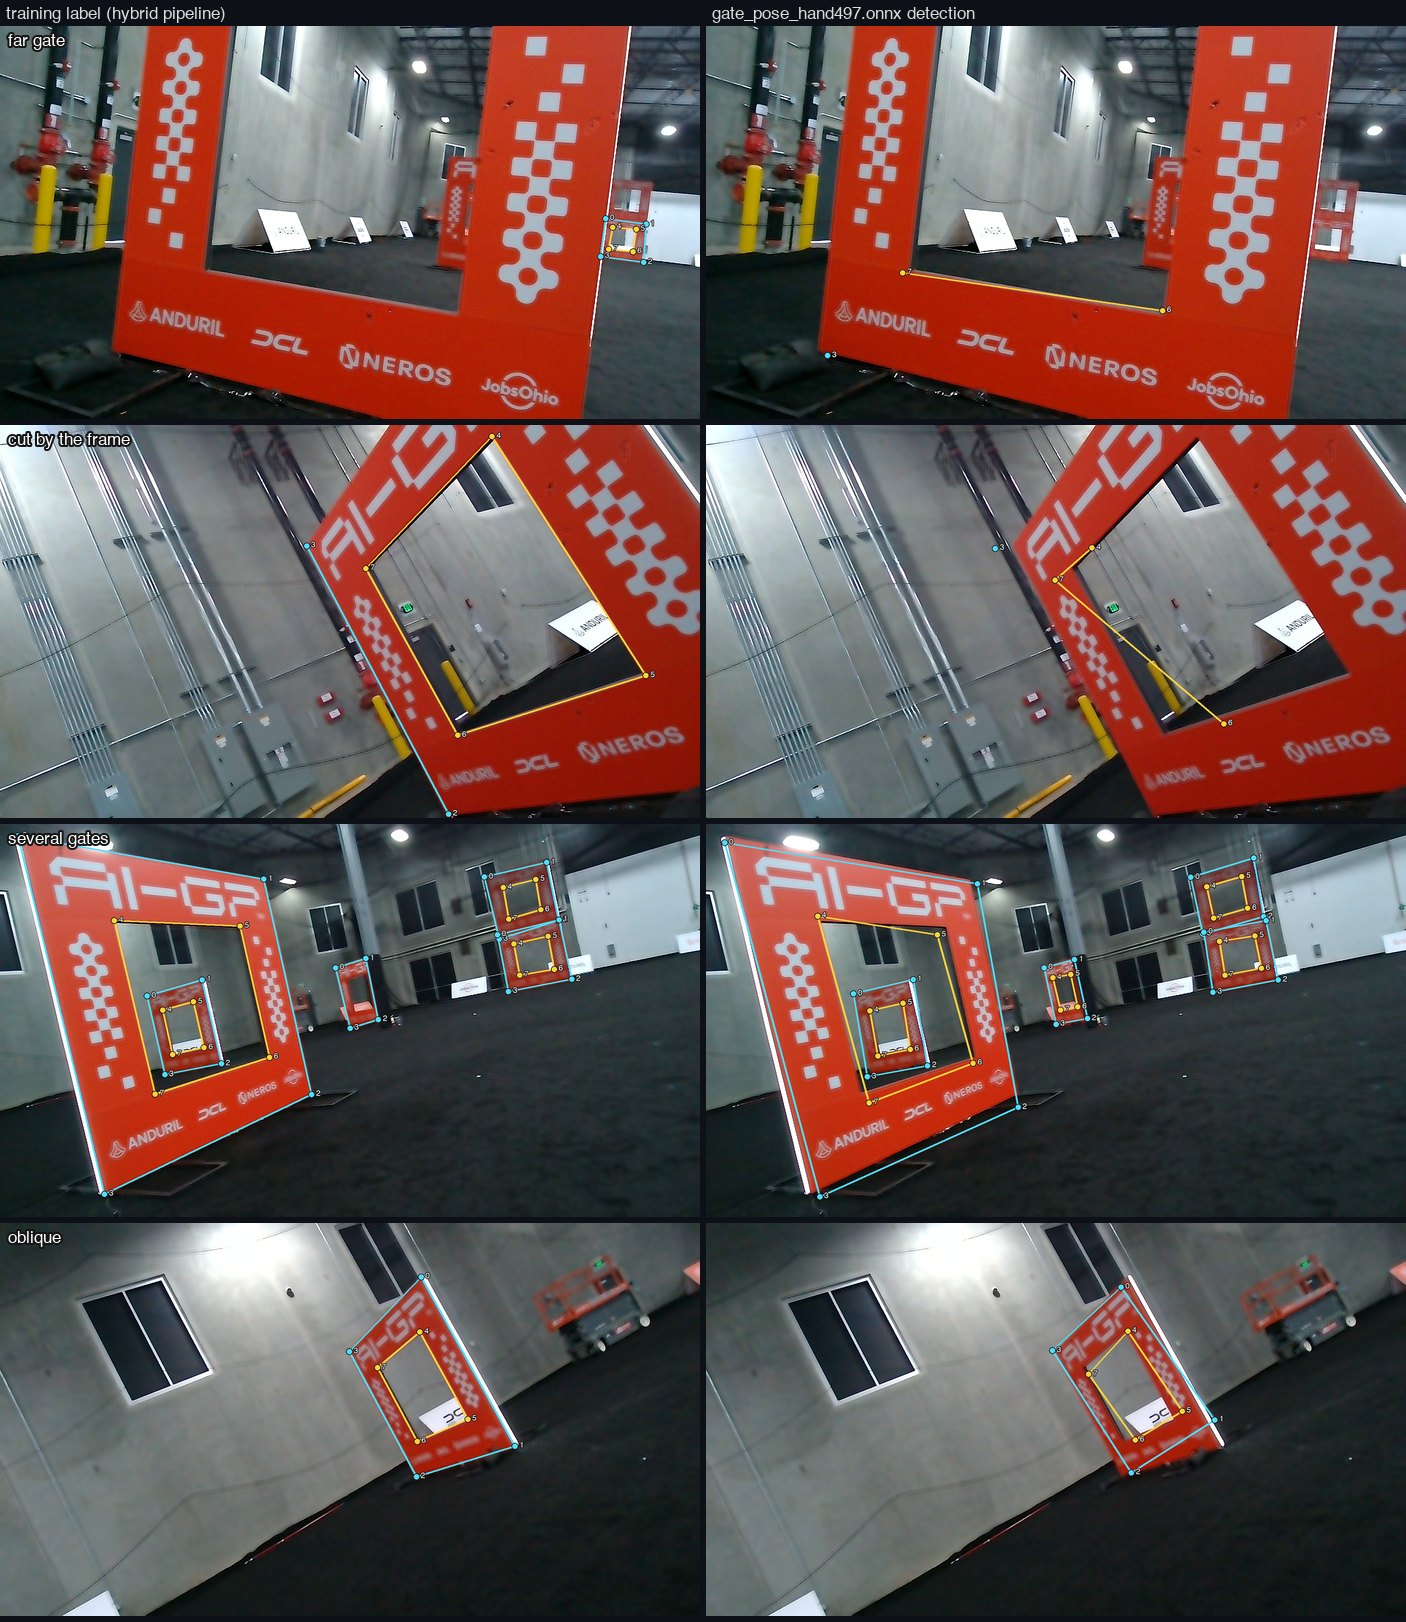
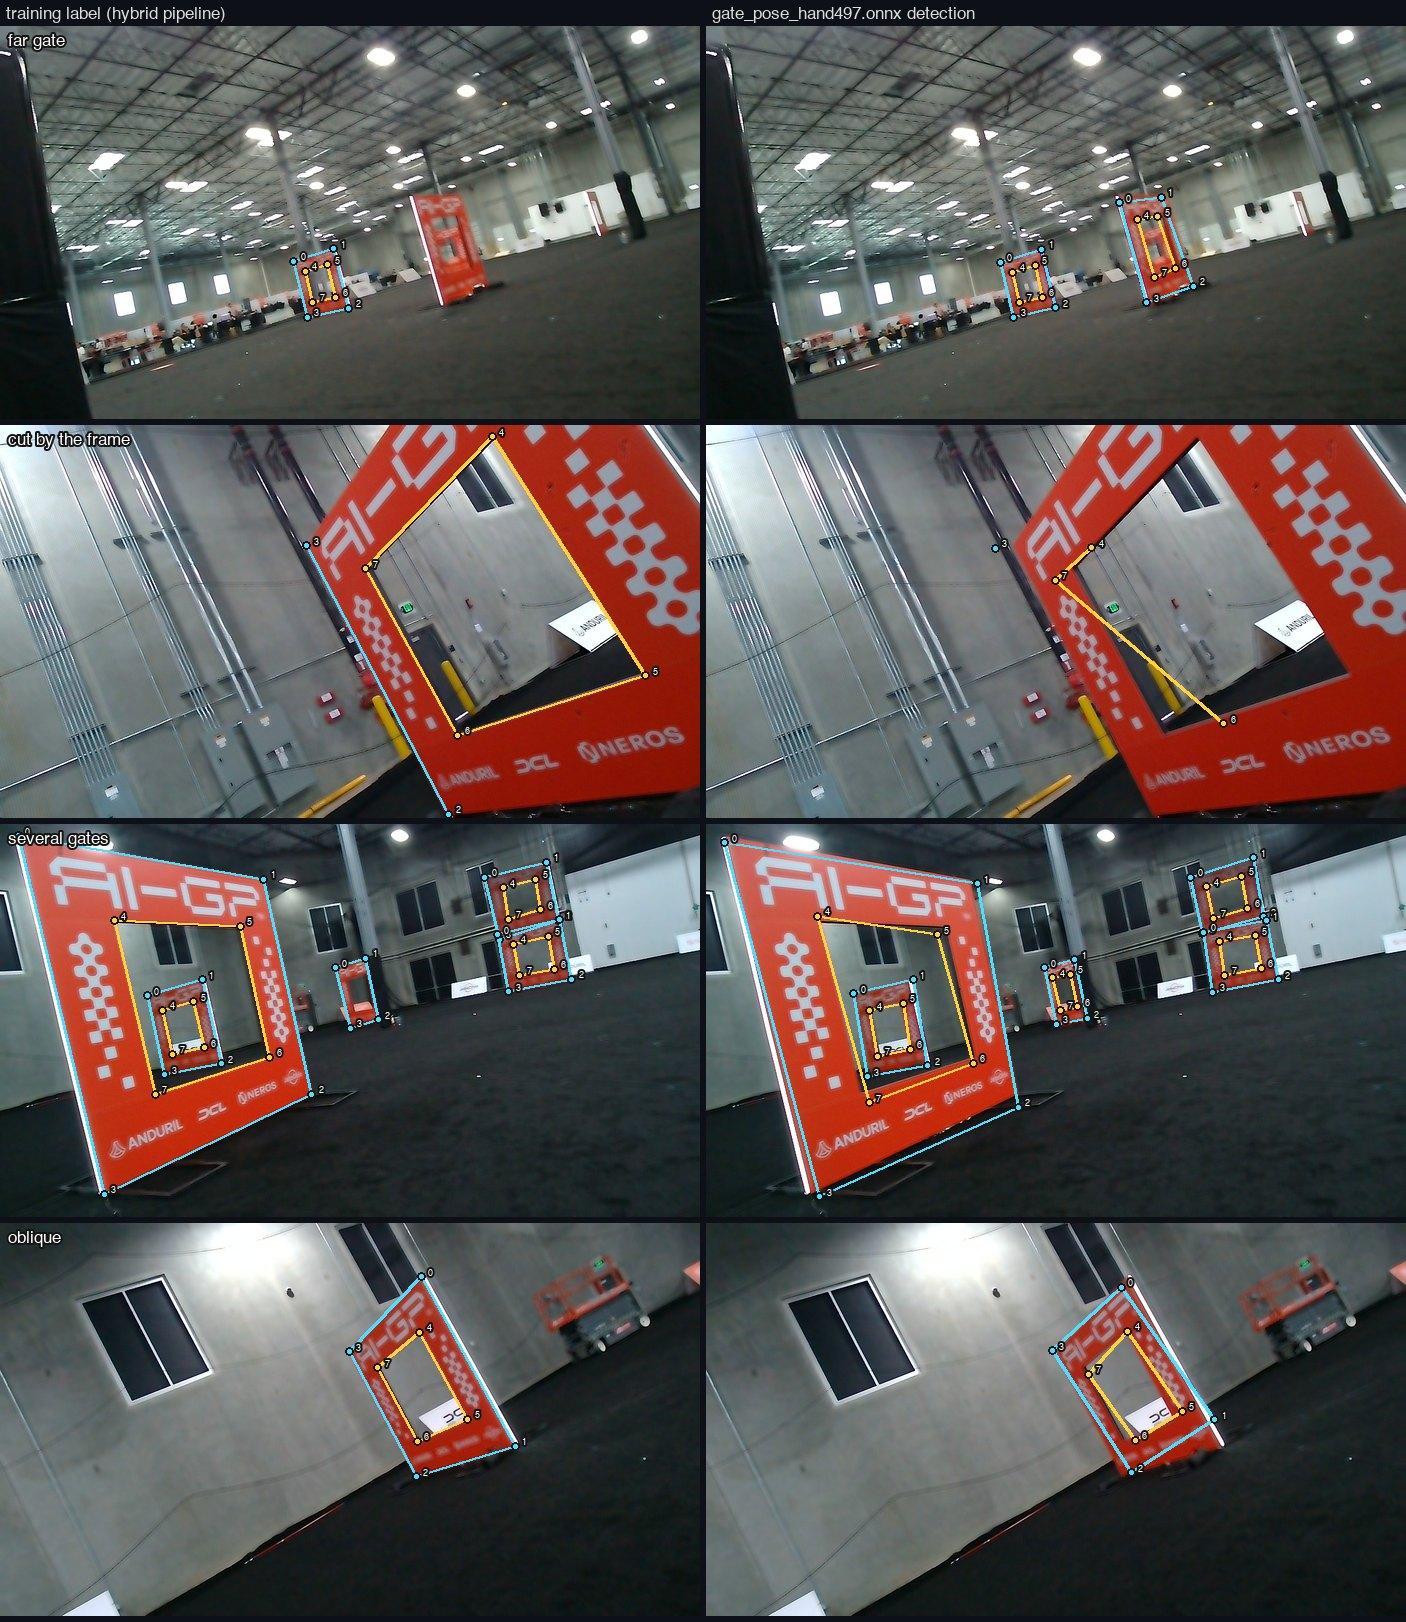
README images picked for what they show
The animated pair is now an approach through the hall (frames 200-240 of
the second session, the gate growing from 17% to 67% of the frame),
chosen by the labels themselves; the far-gate row is a frame where every
detection is small, so no unlabelled near gate dominates it. Overlays are
drawn at output size so lines and numbers stay legible.

diff --git a/docs/make_readme_images.py b/docs/make_readme_images.py
@@ -47,9 +47,11 @@ def gates(stem):
     return out
 
 def draw(im, gs, scale=1.0):
+    """Draw at the image's own size: lw/r/font scale with width so overlays stay legible after resizing."""
     W, H = im.size; d = ImageDraw.Draw(im)
-    lw = max(2, int(5 * scale)); r = max(4, int(9 * scale))
-    try: font = ImageFont.truetype("/System/Library/Fonts/Helvetica.ttc", int(22 * scale))
+    k = W / 1920 * scale
+    lw = max(2, round(7 * k)); r = max(3, round(11 * k))
+    try: font = ImageFont.truetype("/System/Library/Fonts/Helvetica.ttc", max(9, round(26 * k)))
     except OSError: font = ImageFont.load_default()
     for box, kps in gs:
         pts = [(x * W, y * H, vis) for x, y, vis in kps]
@@ -67,10 +69,26 @@ def draw(im, gs, scale=1.0):
 
 def frame(stem, width):
     im = Image.open(os.path.join(CAPTURE, stem + ".jpg")).convert("RGB")
-    im = draw(im, gates(stem))
-    return im.resize((width, int(im.height * width / im.width)), Image.LANCZOS)
+    im = im.resize((width, int(im.height * width / im.width)), Image.LANCZOS)
+    return draw(im, gates(stem))
 
-def side_by_side_gif(start="0919_214639_000000", n=50, step=2, width=460, fps=5, weights=None):
+def best_window(n=40, step=1):
+    """The n-frame window that is an approach: the largest gate with six or more corners in view grows the most."""
+    best, best_score = None, -1
+    for prefix in ("0919_214639", "0919_220524"):
+        hs = {}
+        for p in glob.glob(os.path.join(LABELS, "*", "labels", prefix + "_*.txt")):
+            st = os.path.splitext(os.path.basename(p))[0]; gs = gates(st)
+            ok = [g for g in gs if sum(v for _, _, v in g[1]) >= 6]
+            hs[int(st[-6:])] = max((g[0][3] for g in ok), default=0.0)
+        for a in sorted(hs):
+            win = [hs.get(a + k * step, 0.0) for k in range(n)]
+            if min(win) <= 0.10: continue
+            sc = win[-1] - win[0]
+            if sc > best_score: best, best_score = f"{prefix}_{a:06d}", sc
+    return best, best_score
+
+def side_by_side_gif(start=None, n=40, step=1, width=480, fps=5, weights=None):
     """Left: the hybrid training labels. Right: gate_pose_hand497.onnx on the raw frame, through the flight-facing detector class."""
     import cv2
     sys.path.insert(0, os.path.join(os.path.dirname(OUT), "deploy", "onnx"))
@@ -78,21 +96,24 @@ def side_by_side_gif(start="0919_214639_000000", n=50, step=2, width=460, fps=5,
     det = GateDetector(weights or os.path.join(os.path.dirname(OUT), "models", "gate_pose_hand497.onnx"), conf=0.4, kpt_conf=0.25, provider="cpu")
     try: font = ImageFont.truetype("/System/Library/Fonts/Helvetica.ttc", 15)
     except OSError: font = ImageFont.load_default()
-    stems = [f"0919_214639_{int(start[-6:]) + k * step:06d}" for k in range(n)]
+    if start is None:
+        start, score = best_window(n=n, step=step); print("window", start, "gate growth", round(score, 2))
+    stems = [f"{start[:-6]}{int(start[-6:]) + k * step:06d}" for k in range(n)]
     frames, n_gates, n_full = [], 0, 0
     for st in stems:
         path = os.path.join(CAPTURE, st + ".jpg")
         if not os.path.exists(path) or not label_path(st): continue
         bgr = cv2.imread(path); H, W = bgr.shape[:2]
-        left = draw(Image.fromarray(bgr[..., ::-1].copy()), gates(st))
+        h = int(H * width / W); gap, strip = 6, 22
+        small = Image.fromarray(bgr[..., ::-1].copy()).resize((width, h), Image.LANCZOS)
+        left = draw(small.copy(), gates(st))
         gs = []
         for g in det.detect(cv2.resize(bgr, (640, 360))):
-            gs.append(((0, 0, 0, 0), [(x * (W / 640) / W, y * (H / 360) / H, bool(v)) for (x, y), v in zip(g.keypoints, g.kpt_visible)]))
+            gs.append(((0, 0, 0, 0), [(x / 640, y / 360, bool(v)) for (x, y), v in zip(g.keypoints, g.kpt_visible)]))
             n_gates += 1; n_full += int(g.kpt_visible.sum() == 8)
-        right = draw(Image.fromarray(bgr[..., ::-1].copy()), gs)
-        h = int(H * width / W); gap, strip = 6, 22
+        right = draw(small.copy(), gs)
         sheet = Image.new("RGB", (2 * width + gap, h + strip), (13, 17, 23))
-        sheet.paste(left.resize((width, h), Image.LANCZOS), (0, strip)); sheet.paste(right.resize((width, h), Image.LANCZOS), (width + gap, strip))
+        sheet.paste(left, (0, strip)); sheet.paste(right, (width + gap, strip))
         d = ImageDraw.Draw(sheet)
         d.text((6, 4), "training labels (hybrid pipeline)", fill=(220, 220, 220), font=font)
         d.text((width + gap + 6, 4), "gate_pose_hand497.onnx detections", fill=(220, 220, 220), font=font)
@@ -101,8 +122,10 @@ def side_by_side_gif(start="0919_214639_000000", n=50, step=2, width=460, fps=5,
     frames[0].save(out, save_all=True, append_images=frames[1:], duration=int(1000 / fps), loop=0, optimize=True)
     print(out, len(frames), "frames", round(os.path.getsize(out) / 1e6, 1), "MB;", n_gates, "gates found by the model,", n_full, "with all 8 corners above 0.25")
 
-def pick_hard_cases():
-    """Choose by the labels themselves: far, cut off, crowded, oblique."""
+def pick_hard_cases(det=None):
+    """Choose by the labels themselves: far, cut off, crowded, oblique. The far case also asks the model to agree
+    that there is one small gate and nothing else, so an unlabelled near gate cannot dominate the frame."""
+    import cv2
     stems = [os.path.splitext(os.path.basename(p))[0] for p in glob.glob(os.path.join(LABELS, "*", "labels", "*.txt"))]
     stats = {}
     for st in stems:
@@ -111,7 +134,16 @@ def pick_hard_cases():
         big = max(gs, key=lambda g: g[0][2] * g[0][3])
         vis = sum(v for _, _, v in big[1])
         stats[st] = dict(n=len(gs), h=big[0][3], vis=vis, skew=abs(big[1][0][1] - big[1][1][1]) if big[1][0][2] and big[1][1][2] else 0)
-    far = min((st for st in stats if stats[st]["vis"] == 8 and stats[st]["h"] > 0.08), key=lambda st: stats[st]["h"])
+    far_cands = sorted((st for st in stats if stats[st]["vis"] == 8 and stats[st]["n"] <= 2 and 0.10 < stats[st]["h"] < 0.25), key=lambda st: stats[st]["h"])
+    far = far_cands[0]
+    if det is not None:
+        for st in far_cands:
+            gs = det.detect(cv2.resize(cv2.imread(os.path.join(CAPTURE, st + ".jpg")), (640, 360)))
+            # every detection small (nothing large and unlabelled in the frame), and at least one with all eight corners
+            if gs and all((g.box[3] - g.box[1]) / 360 < 0.3 for g in gs) and any(g.kpt_visible.sum() == 8 for g in gs):
+                far = st; break
+        else:
+            print("no far-gate frame passed the model check; using", far)
     cut = max((st for st in stats if 4 <= stats[st]["vis"] <= 6), key=lambda st: stats[st]["h"])
     crowd = max((st for st in stats if stats[st]["vis"] == 8), key=lambda st: (stats[st]["n"], stats[st]["h"]))
     oblique = max((st for st in stats if stats[st]["vis"] == 8 and stats[st]["h"] > 0.3), key=lambda st: stats[st]["skew"])
@@ -125,7 +157,7 @@ def hard_cases_pairs(pane=700, weights=None):
     det = GateDetector(weights or os.path.join(os.path.dirname(OUT), "models", "gate_pose_hand497.onnx"), conf=0.4, kpt_conf=0.25, provider="cpu")
     try: font = ImageFont.truetype("/System/Library/Fonts/Helvetica.ttc", 17)
     except OSError: font = ImageFont.load_default()
-    picks = pick_hard_cases(); gap, strip = 6, 26
+    picks = pick_hard_cases(det); gap, strip = 6, 26
     h = int(pane * 9 / 16)
     sheet = Image.new("RGB", (2 * pane + gap, strip + 4 * (h + gap)), (13, 17, 23))
     d = ImageDraw.Draw(sheet)
@@ -133,9 +165,10 @@ def hard_cases_pairs(pane=700, weights=None):
     d.text((pane + gap + 6, 5), "gate_pose_hand497.onnx detection", fill=(220, 220, 220), font=font)
     for r, (st, tag) in enumerate(picks):
         bgr = cv2.imread(os.path.join(CAPTURE, st + ".jpg")); H, W = bgr.shape[:2]
-        left = draw(Image.fromarray(bgr[..., ::-1].copy()), gates(st)).resize((pane, h), Image.LANCZOS)
-        gs = [((0, 0, 0, 0), [(x * (W / 640) / W, y * (H / 360) / H, bool(v)) for (x, y), v in zip(g.keypoints, g.kpt_visible)]) for g in det.detect(cv2.resize(bgr, (640, 360)))]
-        right = draw(Image.fromarray(bgr[..., ::-1].copy()), gs).resize((pane, h), Image.LANCZOS)
+        small = Image.fromarray(bgr[..., ::-1].copy()).resize((pane, int(H * pane / W)), Image.LANCZOS)
+        left = draw(small.copy(), gates(st))
+        gs = [((0, 0, 0, 0), [(x / 640, y / 360, bool(v)) for (x, y), v in zip(g.keypoints, g.kpt_visible)]) for g in det.detect(cv2.resize(bgr, (640, 360)))]
+        right = draw(small.copy(), gs)
         y = strip + r * (h + gap)
         sheet.paste(left, (0, y)); sheet.paste(right, (pane + gap, y))
         ImageDraw.Draw(sheet).text((8, y + 6), tag, fill="white", font=font, stroke_width=2, stroke_fill=(20, 20, 20))

diff --git a/README.md b/README.md
@@ -6,7 +6,7 @@ The whole project is written up in [the paper](https://github.com/bojro/aigp-sim
 
 ![Same frames, twice: the training labels the pipeline wrote on the left, the shipped model's detections on the right](docs/walkaround_labels_vs_hand497.gif)
 
-*The same walk around a gate, shown twice. Left: the corner labels the hybrid pipeline in this repo wrote for each frame, which is what the model was trained on. Right: `gate_pose_hand497.onnx`, the shipped model, run on the raw frame through the same detector class the flight code uses; corners below the 0.25 keypoint threshold are left out, so what is drawn is what the aircraft would get. Cyan is the outer ring, yellow the opening, numbers are the corner ids, and an edge is drawn only between two corners that were seen. Frames from the aircraft's own camera, 19 September.*
+*Forty frames of a walk through the hall, shown twice. Left: the corner labels the hybrid pipeline in this repo wrote for each frame, which is what the model was trained on. Right: `gate_pose_hand497.onnx`, the shipped model, run on the raw frame through the same detector class the flight code uses; corners below the 0.25 keypoint threshold are left out, so what is drawn is what the aircraft would get. Cyan is the outer ring, yellow the opening, numbers are the corner ids, and an edge is drawn only between two corners that were seen. Frames from the aircraft's own camera, 19 September.*
 
 ## Results
 
@@ -23,7 +23,7 @@ The last row matters most: every accuracy figure in this repo before the human l
 
 ![The four hard cases, each as its training label (left) and hand497's detection (right)](docs/hard_cases_labels_vs_hand497.jpg)
 
-*Four difficult cases, each shown as the training label on the left and the shipped model's detection on the right. Row 1, a far gate: the label pipeline found the small gate in the distance and gave up on the near one running off the frame; the model still places three corners on the near one. Row 2, a gate cut by the frame: six labelled corners, and the model picks up one edge of the opening. Row 3, five gates at once: both sides put eight ordered corners on each. Row 4, an oblique view: the planar rings still land. Where the two columns differ is exactly where the detector adds to, or falls short of, the geometry.*
+*Four difficult cases, each shown as the training label on the left and the shipped model's detection on the right. Row 1, far gates: the label pipeline traced one of the two; the model finds both. Row 2, a gate cut by the frame: six labelled corners, and the model places one edge of the opening. Row 3, five gates at once: both sides put eight ordered corners on each. Row 4, an oblique view: the planar rings still land. Where the two columns differ is where the detector adds to, or falls short of, the geometry it learned from.*
 
 ## Method
 
